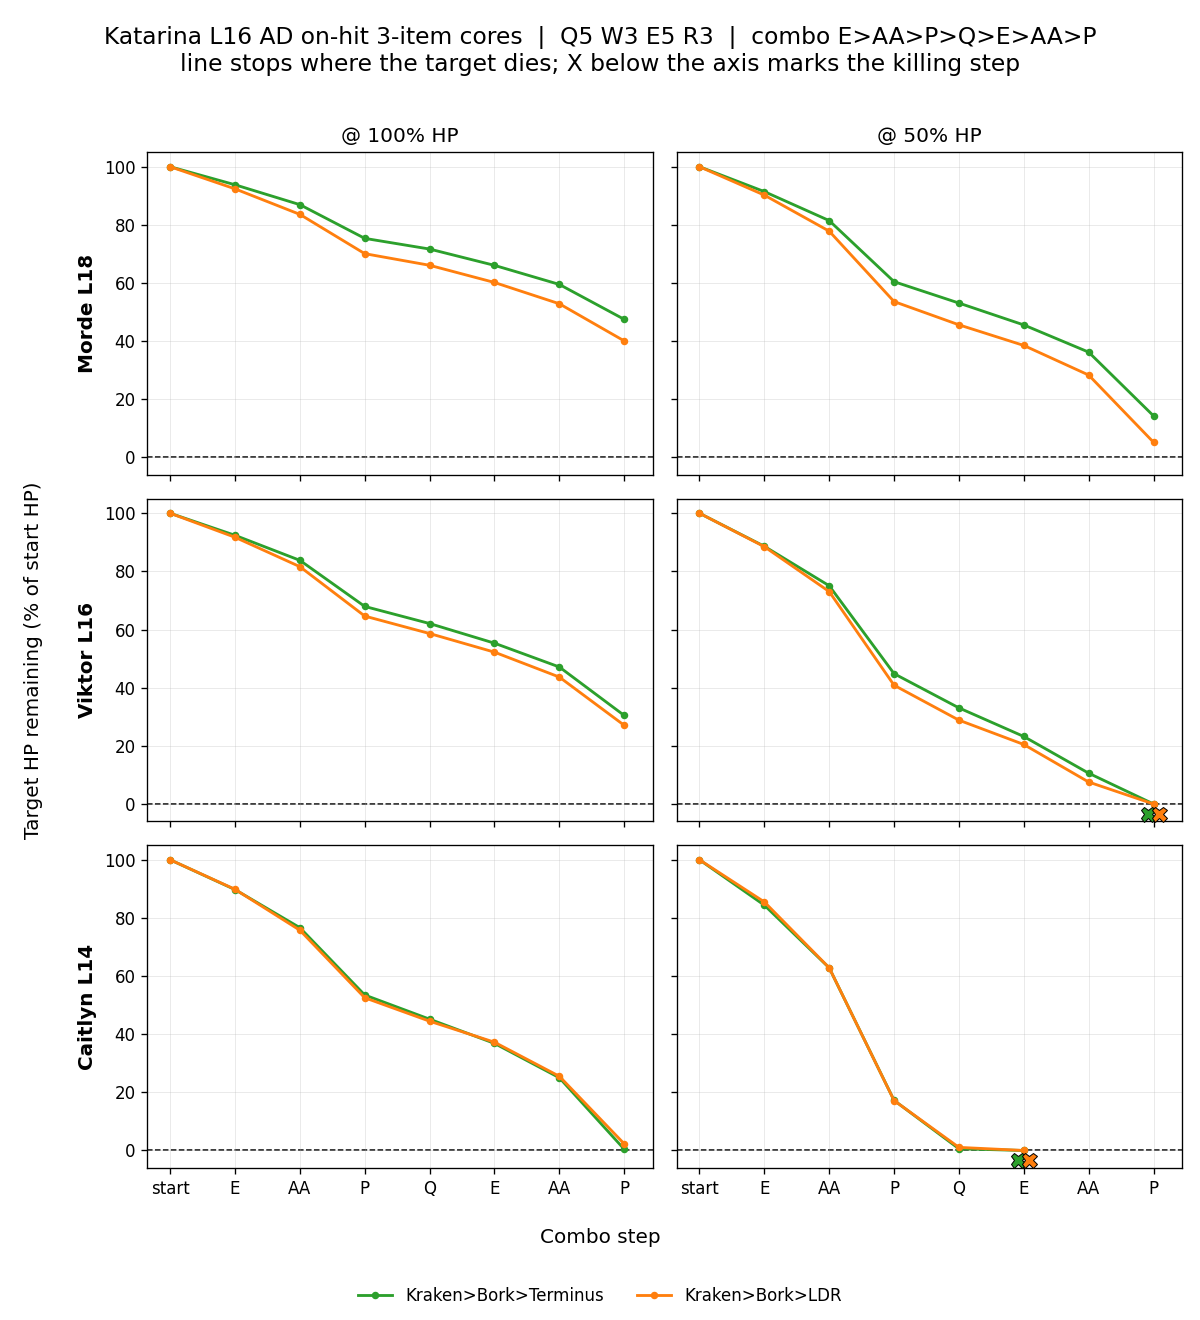
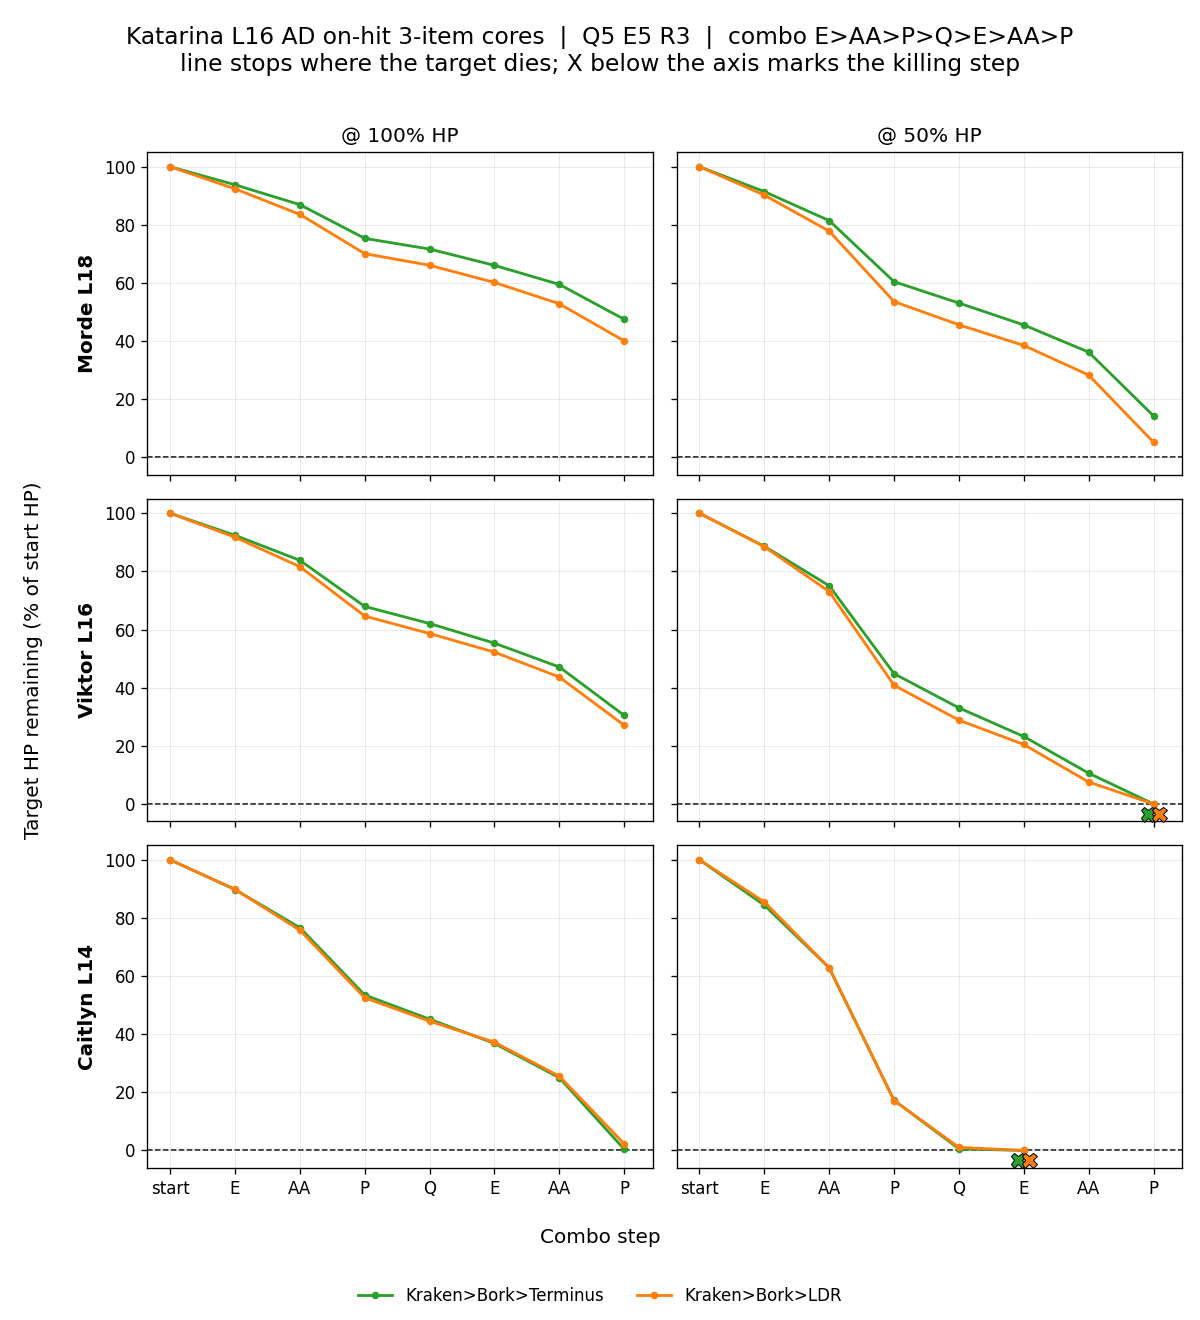
change colors and show physical and magic of R

Changed region(s): [[0.0925, 0.0, 0.5858, 0.0311], [0.6167, 0.0, 0.8942, 0.0311]]

diff --git a/cooks/combo_sim.py b/cooks/combo_sim.py
@@ -52,10 +52,19 @@ class Build(NamedTuple):
     has_terminus: bool
 
 
-# Damage-source labels used for per-hit attribution in charts.
+# Damage-source labels used for per-hit attribution in charts. Bork's Mist's Edge
+# and Kraken's Bring It Down are physical; Terminus' Shadow is magic.
 SOURCE_BORK = "Bork Mist's Edge"
 SOURCE_TERMINUS = "Terminus Shadow"
 SOURCE_KRAKEN = "Kraken Bring It Down"
+
+
+def physical_label(label: str) -> str:
+    return f"{label} (physical)"
+
+
+def magic_label(label: str) -> str:
+    return f"{label} (magic)"
 
 
 class Hit(NamedTuple):
@@ -313,16 +322,18 @@ def simulate(
                     is_melee=is_melee,
                     effectiveness=hit.onhit_effectiveness,
                 )
-            own = mitigated_damage(
-                state,
-                target,
-                build,
-                hit.raw_physical,
-                hit.raw_magic,
-                basic=hit.is_basic_attack,
+            # Logged as two components so charts can separate the damage types.
+            # Mitigation is linear, so splitting does not change the total.
+            own_phys = mitigated_damage(
+                state, target, build, hit.raw_physical, 0.0, basic=hit.is_basic_attack
             )
-            if own > 0:
-                components.append((hit.label, own))
+            own_magic = mitigated_damage(
+                state, target, build, 0.0, hit.raw_magic, basic=hit.is_basic_attack
+            )
+            if own_phys > 0:
+                components.append((physical_label(hit.label), own_phys))
+            if own_magic > 0:
+                components.append((magic_label(hit.label), own_magic))
             deal(
                 state,
                 target,

diff --git a/cooks/s16/katarina_ad_onhit_3item.py b/cooks/s16/katarina_ad_onhit_3item.py
@@ -62,7 +62,9 @@ from cooks.combo_sim import (
     ComboResult,
     Hit,
     Target,
+    magic_label,
     make_build,
+    physical_label,
     simulate,
 )
 
@@ -110,12 +112,24 @@ assert (
     BUILD_COLORS.keys() == ITEM_SETS.keys()
 ), f"BUILD_COLORS must cover exactly ITEM_SETS, got {BUILD_COLORS.keys() ^ ITEM_SETS.keys()}"
 
-# Death Lotus tick chart: dagger's own damage on the bottom, on-hit procs above.
+# Death Lotus tick chart: the dagger's own damage on the bottom split by damage
+# type, then the on-hit procs above it. Orange is physical and blue is magic, which
+# is the split LDR's armor pen acts on (physical only).
 R_DAGGER_LABEL = "R dagger"
-SOURCE_ORDER = (R_DAGGER_LABEL, SOURCE_BORK, SOURCE_TERMINUS, SOURCE_KRAKEN)
+R_DAGGER_PHYS = physical_label(R_DAGGER_LABEL)
+R_DAGGER_MAGIC = magic_label(R_DAGGER_LABEL)
+SOURCE_ORDER = (
+    R_DAGGER_PHYS,
+    R_DAGGER_MAGIC,
+    SOURCE_BORK,
+    SOURCE_TERMINUS,
+    SOURCE_KRAKEN,
+)
 SOURCE_COLORS = {
-    R_DAGGER_LABEL: "tab:purple",
-    SOURCE_BORK: "tab:cyan",
+    R_DAGGER_PHYS: "tab:orange",
+    R_DAGGER_MAGIC: "tab:blue",
+    # Not cyan: it would sit directly above the blue magic band and blur into it.
+    SOURCE_BORK: "tab:purple",
     SOURCE_TERMINUS: "tab:olive",
     SOURCE_KRAKEN: "tab:red",
 }
